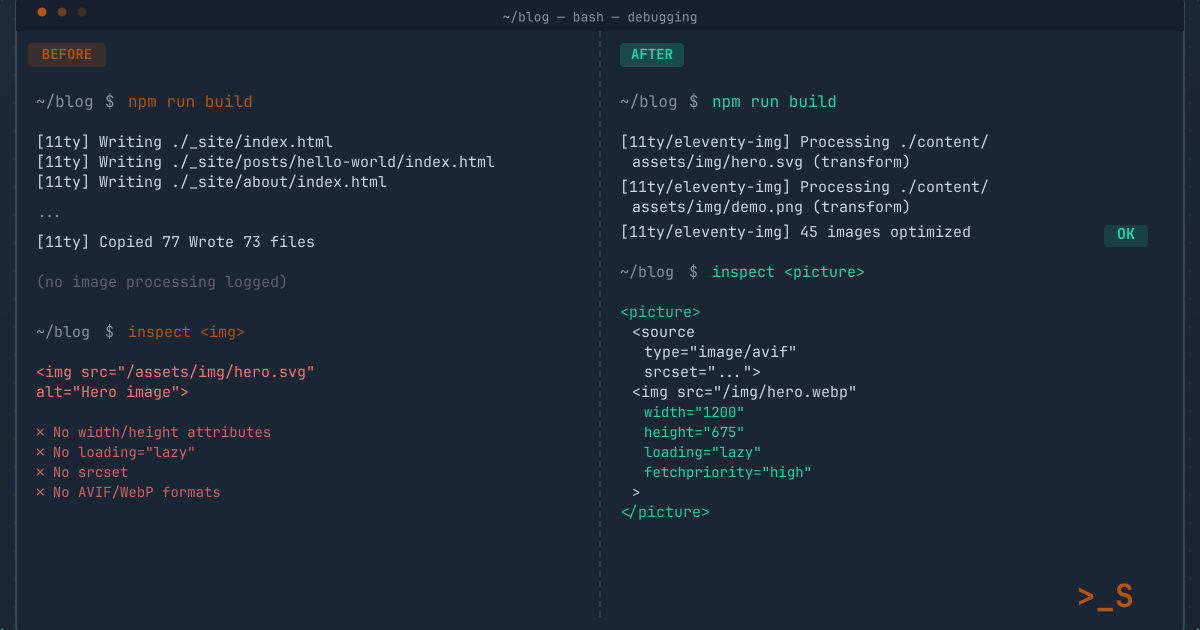
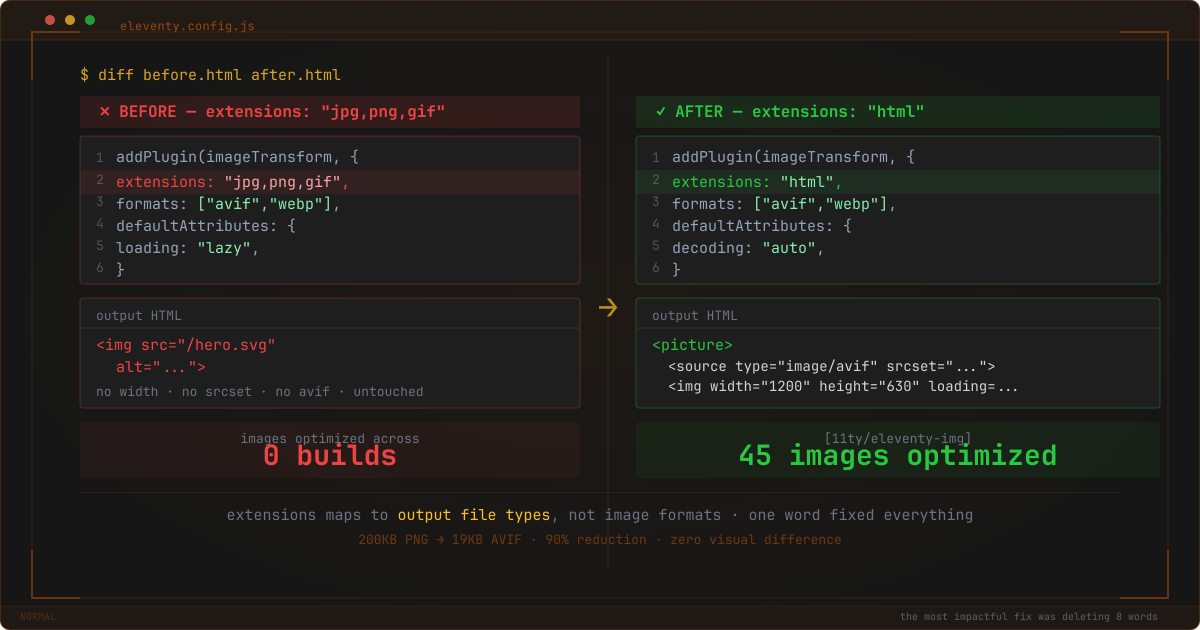
publish: the-plugin-that-was-never-running
- Opening reframed from 'Ignorance Is Bliss' to 'The Silent Failure'
- New SVG hero (1200×630 split-panel: broken vs fixed config)
- OG PNG regenerated from new SVG
- Alt text trimmed to ≤125 chars, caption ≤15 words
- Interlink to Chasing 100 in Lighthouse section
- diff block: added missing decoding:async removal line
- Table clarified: 'Images' → 'Raster images'
- draft: false, date set to 2026-07-12

diff --git a/content/posts/the-plugin-that-was-never-running.md b/content/posts/the-plugin-that-was-never-running.md
@@ -1,25 +1,23 @@
 ---
 title: The Plugin That Was Never Running
 description: "Months of trusting that my Eleventy image plugin was optimizing images — wasted. A misnamed config option silently broke all image transformations on the site."
-date: 2026-07-01
+date: 2026-07-12
 tags: [debugging, eleventy, meta, web-development]
-draft: true
+draft: false
 pageHasCode: true
 image: /assets/img/og/the-plugin-that-was-never-running.png
-image_alt: "Split-panel terminal comparison: left panel BEFORE shows a bare img tag with no width or height; right panel AFTER shows the same image wrapped in a picture element with AVIF and WebP sources and proper dimensions"
+image_alt: "Split-panel BEFORE vs AFTER: left shows an untouched img tag; right shows picture element with AVIF sources and dimensions"
 ---
 
-![Split-panel terminal comparison: left panel "BEFORE" shows a bare <img> tag with no width, height, or srcset; right panel "AFTER" shows the same image wrapped in a <picture> element with AVIF and WebP sources, proper dimensions, and loading="eager"](../assets/img/the-plugin-that-was-never-running.svg)
+![BEFORE vs AFTER split-panel: left shows a bare img tag; right shows picture element with AVIF sources and dimensions](../assets/img/the-plugin-that-was-never-running.svg)
 
-*Before and after: bare `<img>` tag (left) vs `<picture>` with AVIF/WebP and eager loading (right)*
+*Before and after: bare `<img>` tag vs `<picture>` with AVIF sources and dimensions*
 
 ${toc}
 
-## Ignorance Is Bliss
+## The Silent Failure
 
-A few hours ago, I was proud of my blog. Every post had a hero image. Every build completed with zero errors. The Eleventy Image Transform Plugin was configured and ready to optimize every `<img>` tag on the site. I had checked all the boxes.
-
-Then I looked at the actual HTML.
+I was debugging a Lighthouse score when something caught my eye in the Network tab: images loading at their original sizes. No WebP, no AVIF, no resizing — every file served exactly as stored on disk. The Elements panel confirmed it: the `<img>` tags were untouched, as if the image plugin didn't exist.
 
 ```html
 <img src="/assets/img/hero.svg" alt="A terminal-themed header image">
@@ -202,7 +200,7 @@ Before, a 200KB PNG screenshot was served as-is. Now, that same image downloads 
 
 ## Bonus Round: Lighthouse LCP
 
-With the plugin working, I ran Lighthouse to see the impact. The score improved — but there was a new warning:
+With the plugin working, I ran Lighthouse to see the impact — picking up where [Chasing 100](/posts/chasing-100/) left off. The score improved — but there was a new warning:
 
 > `LCP image has loading="lazy"`
 
@@ -269,7 +267,7 @@ With `decoding="auto"`, the browser uses its own heuristic. For same-origin hero
 
 | Metric | Before | After |
 |--------|--------|-------|
-| Images with responsive formats | 0 | 45 |
+| Raster images with responsive formats | 0 | 45 |
 | AVIF/WebP generation | ❌ | ✅ (33 AVIF + 33 WebP auto-generated) |
 | Width/height on images | ❌ | ✅ (browser can reserve space) |
 | Hero loading strategy | `lazy` (wrong!) | `eager` + `fetchpriority=high` |
@@ -298,6 +296,7 @@ eleventyConfig.addPlugin(eleventyImageTransformPlugin, {
     formats: ["avif", "webp"],
     defaultAttributes: {
 -     loading: "lazy",
+-     decoding: "async",
 +     decoding: "auto",
     },
 });
